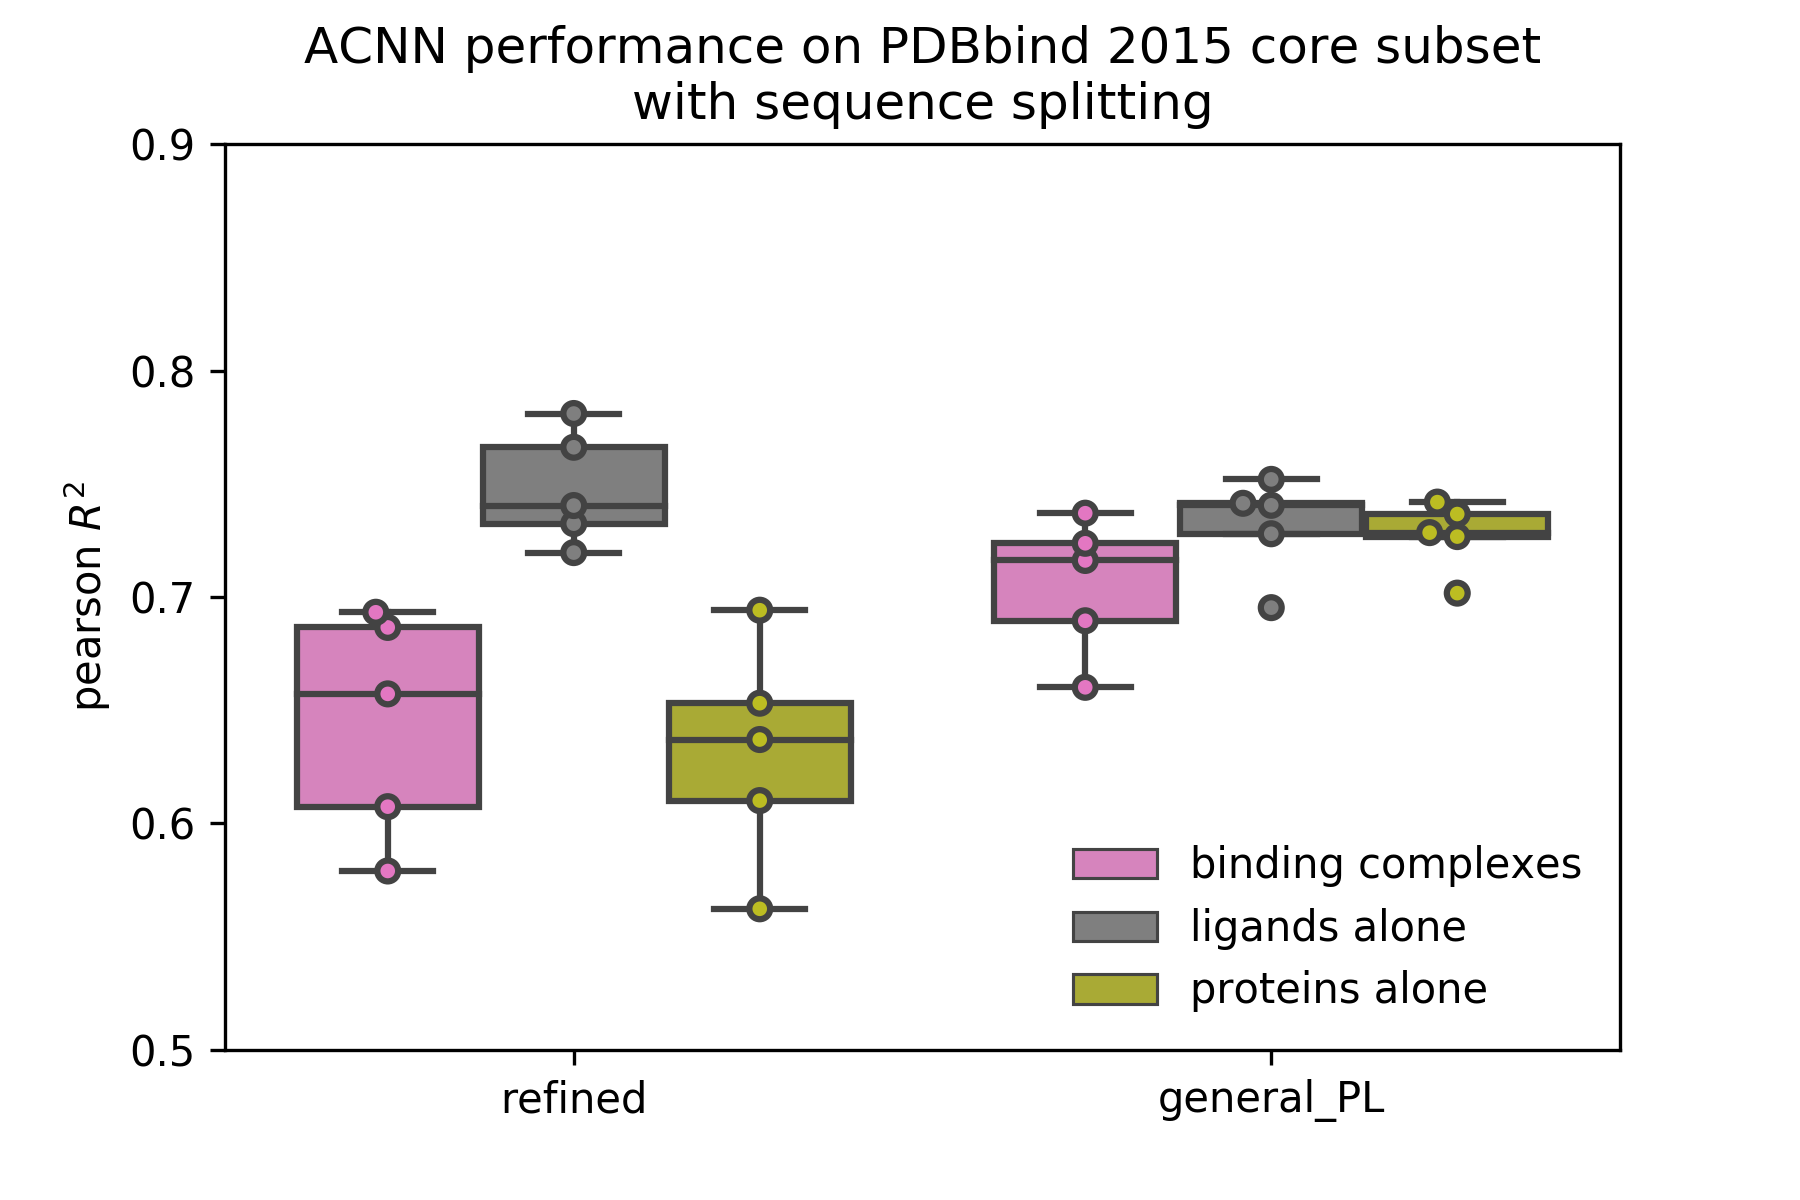
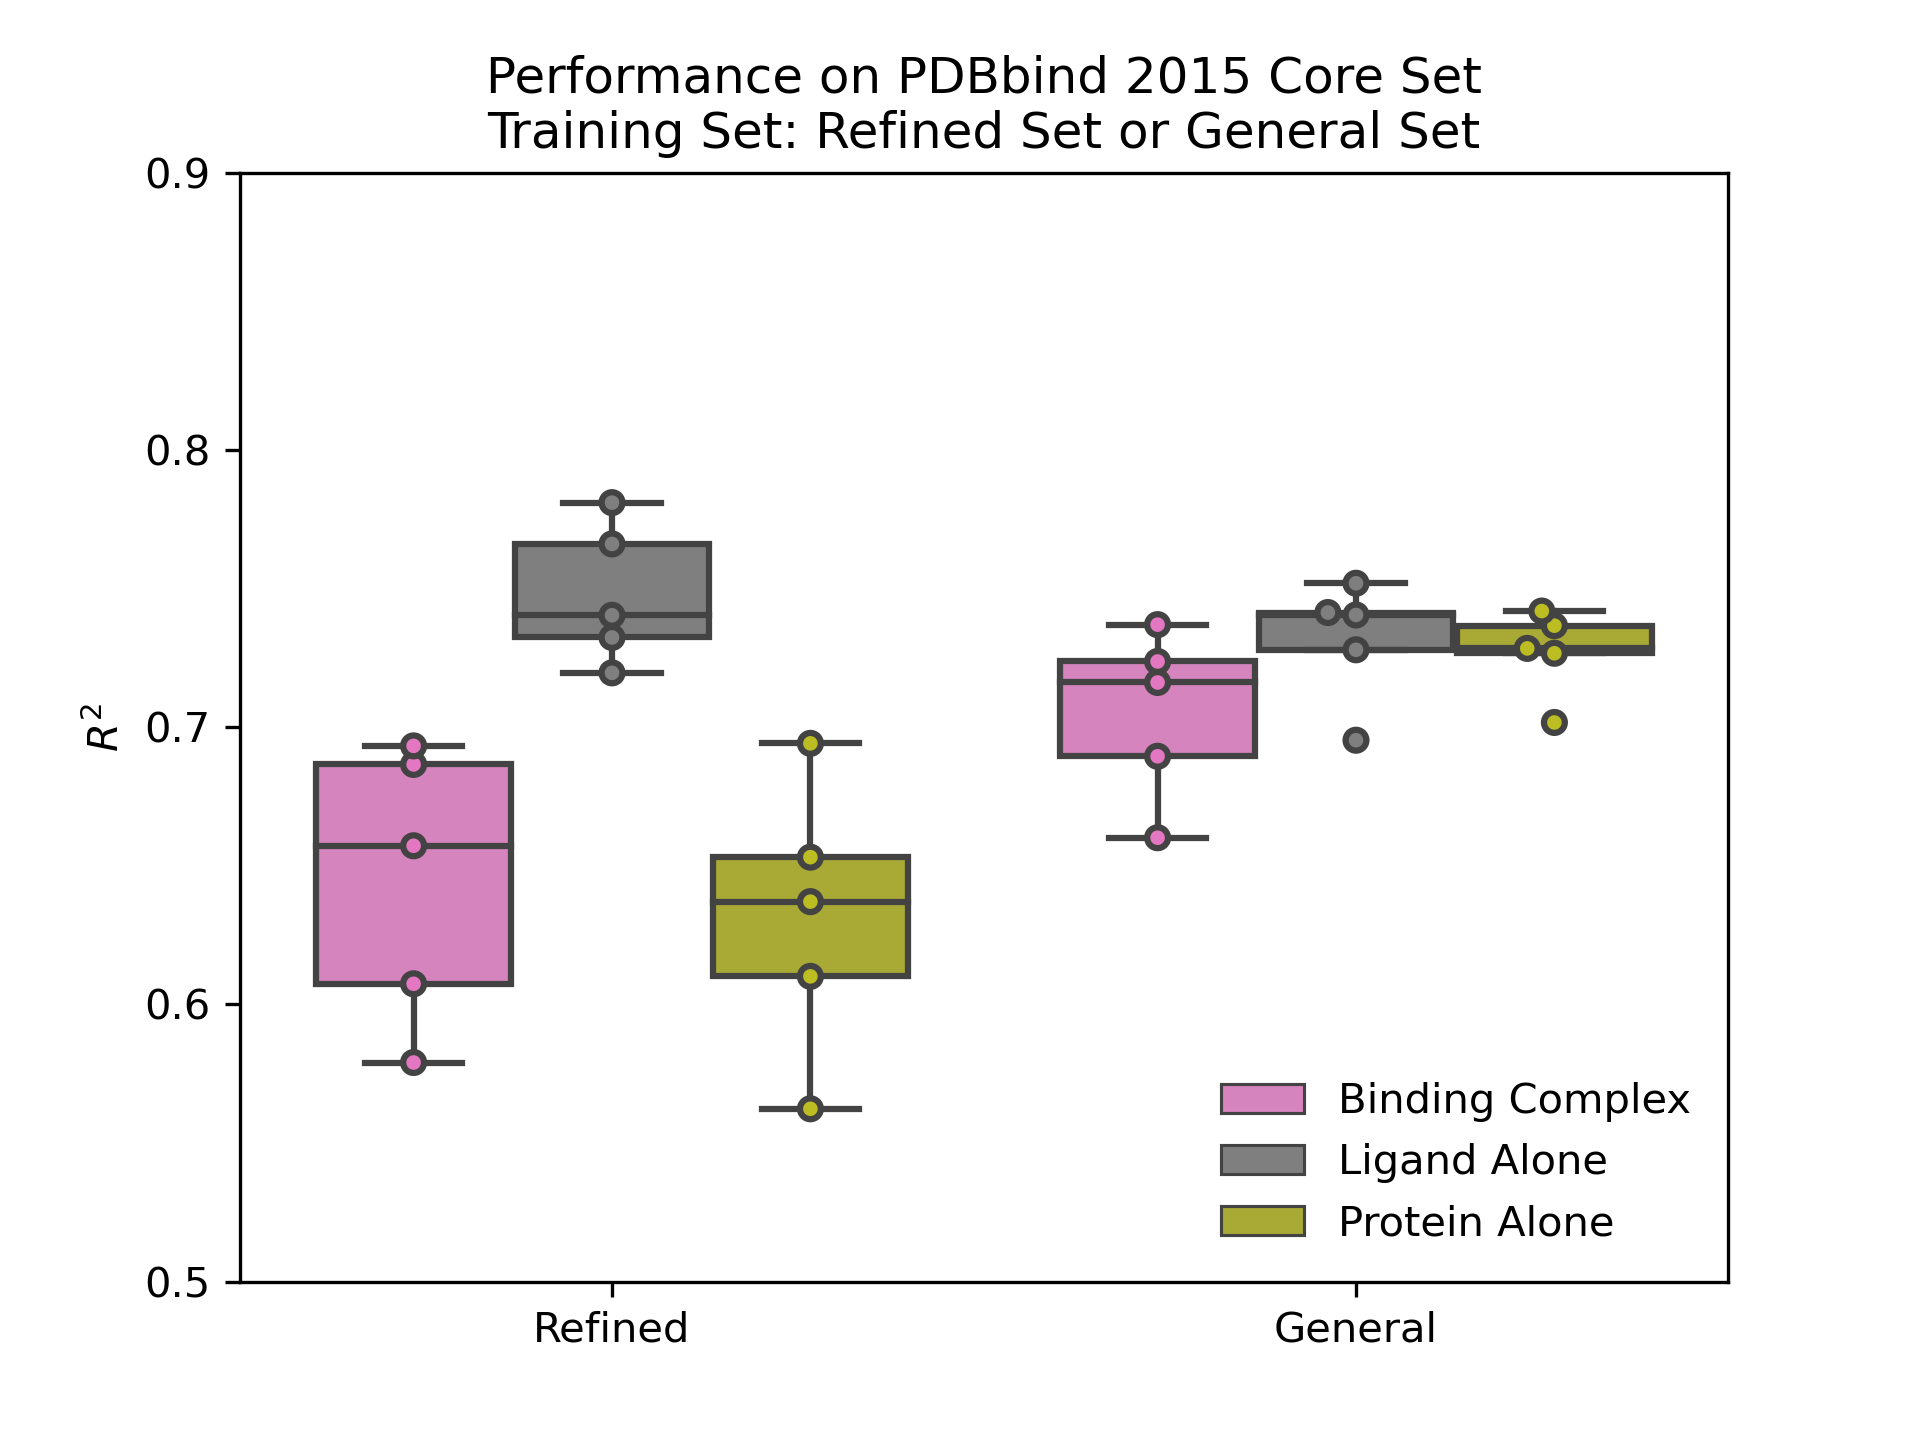
update all figure titles for PDBbind core split.

diff --git a/pdbbind/pred_core.figures/box.py b/pdbbind/pred_core.figures/box.py
@@ -36,8 +36,8 @@ split_names = ['Random', 'Scaffold-based', 'Sequence-based']
 # MAE no meaning in here.
 metrics = ['pearson_r2_score']
 metric_names = ['$R^2$']
-version = 2015
-# version = 2018
+# version = 2015
+version = 2018
 #%%
 colors_2d = sns.color_palette()[:9]
 colors_2d = np.reshape(colors_2d, (3, 3, 3))
@@ -94,7 +94,7 @@ for metric, metric_name in zip(metrics, metric_names):
         ax.set_ylabel(metric_name)
         ax.set_title(
             # f'ACNN performance on PDBbind {version} core subset\nwith {split_name}'
-            f'Performance on PDBbind Core Set\n'
+            f'Performance on PDBbind {version} Core Set\n'
             f'Training Set: Refined Set or General Set')
         ax.set_yticks(np.linspace(0, 1, 11))
         ax.set_ylim([0.5, 0.9])
@@ -154,7 +154,9 @@ for metric, metric_name in zip(metrics, metric_names):
         ax.set_xlabel('')
         ax.set_ylabel(metric_name)
         ax.set_title(
-            f'ACNN performance on PDBbind {version} core subset\ncontaining {component_name} '
+            # f'ACNN performance on PDBbind {version} core subset\ncontaining {component_name} '
+            f'Performance on PDBbind {version} Core Set\n'
+            f'Dataset: PDBbind ({component_name})'
         )
         ax.set_yticks(np.linspace(0, 1, 11))
         ax.set_ylim([0.5, 0.9])
